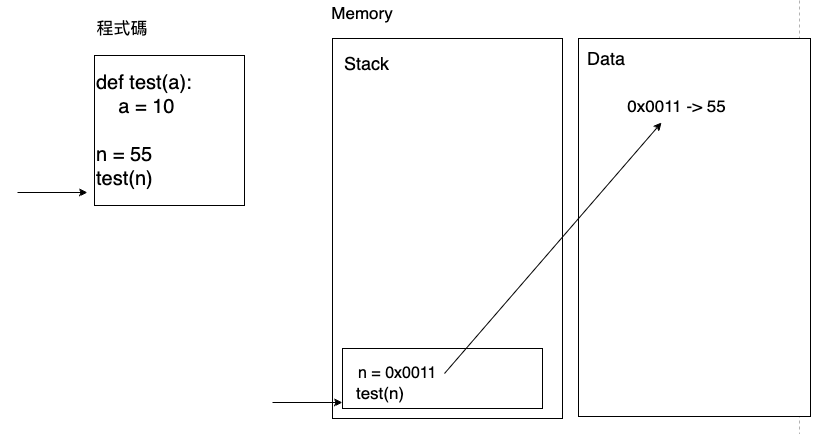
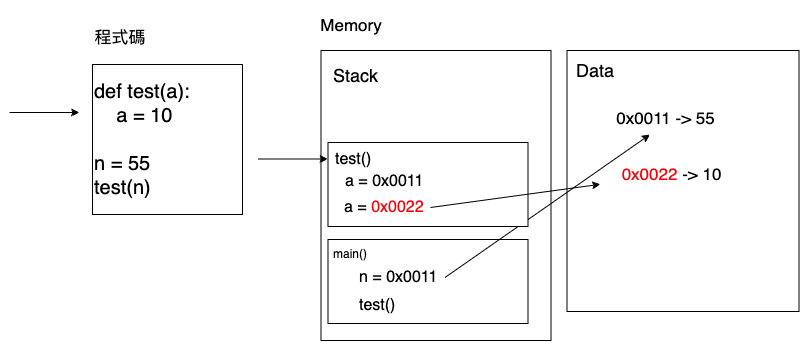
python function
python function

diff --git a/_pages/python/function.md b/_pages/python/function.md
@@ -108,15 +108,22 @@ test(n)
 1.先執行主程式`n=55`，在Stack堆疊區中，建立新的Stack，n的變數存的是0x0011，Data資料區，0x0011記憶體位址存的是55。<br>
 ![img]({{site.imgurl}}/python/stack1.png)<br>
 
-2.執行到test(a)函式後，在Stack堆疊區中，建立新的Stack，Stack建立方式由下至上。<br>
-a的變數存的是0x0011。
+2.呼叫test()函式。<br>
 ![img]({{site.imgurl}}/python/stack2.png)<br>
 
-3.`a=10`，會把變數a存0x0022的記憶體位址，0x0022記憶體位址存的是10。
+3.執行到test(a)函式後，在Stack堆疊區中，建立新的Stack，Stack建立方式由下至上。<br>
+a的變數存的是0x0011。<br>
+
 ![img]({{site.imgurl}}/python/stack3.png)<br>
 
-4.test()函式執行完畢後，test函式的Stack會被清除，stack記憶體位址會被記憶體回收，供之後其它變數使用。<br>
+4.`a=10`，會把變數a存0x0022的記憶體位址，0x0022記憶體位址存的是10。<br>
 ![img]({{site.imgurl}}/python/stack4.png)<br>
+
+5.test()函式執行完畢後，test函式的Stack會被清除，stack記憶體位址會被記憶體回收，供之後其它變數使用。<br>
+![img]({{site.imgurl}}/python/stack5.png)<br>
+
+6.主函式main()執行完畢後，主函式main()的Stack會被清除，stack記憶體位址會被記憶體回收，供之後其它變數使用。<br>
+![img]({{site.imgurl}}/python/stack6.png)<br>
 
 函式內的變數，是屬於區域變數，離開函式無法再讀取，因為函式的記憶體位址在離開函式時已被清除。<br>
 
@@ -170,8 +177,8 @@ def get_info(produt_name = "Cookie", price):
 {% endhighlight %} 
 
 ### 可變參數
-參數數量不固定，可能有1個參數，也可能有10個參數。<br>
-會把多個參數存入tuple。<br>
+參數數量不固定，可能有0個參數、1個參數，也可能有多個參數。<br>
+參數的數量為0至多個參數，會把多個參數存入tuple。<br>
 
 參數名使用`*`星號開頭，如下面程式碼，使用`*args`作為可變參數。<br>
 
@@ -179,6 +186,90 @@ def get_info(produt_name = "Cookie", price):
 ```
 def sum(*args):
     程式碼
+```
+
+以下程式碼，`{args}`直接輸出tuple的內容，使用`type()`輸出類型是tuple。<br>
+{% highlight python linenos %}
+def get_info(*args):
+    print(f"args: {args} , type: {type(args)}")
+
+get_info("Cookie", "Bread", "Fish")
+{% endhighlight %}
+```
+args: ('Cookie', 'Bread', 'Fish') , type: <class 'tuple'>
+```
+
+使用for可以把tuple的元素一個一個輸出。
+{% highlight python linenos %}
+def get_info(*args):
+    for arg in args:
+        print(arg)
+
+get_info("Cookie", "Bread", "Fish")
+{% endhighlight %}
+```
+Cookie
+Bread
+Fish
+```
+
+使用return把傳回值傳入result的變數中。<br>
+{% highlight python linenos %}
+def sum(*args):
+    total =0
+    for arg in args:
+        total += arg
+    return total
+
+result = sum(1,2,3,4,5,6,7,8,9)
+print(result)
+{% endhighlight %}
+
+`*args`為0至多個參數，若無任何參數，也可以。<br>
+以下程式碼呼叫sum()是不代入任何參數。<br>
+{% highlight python linenos %}
+def sum(*args):
+    total =0
+    for arg in args:
+        total += arg
+    return total
+
+result = sum()
+print(result)
+{% endhighlight %}
+```
+0
+```
+
+### key與value的參數
+參數的組成為key與value，此處key的命名仍要符合變數命名規範，不能數字開頭。<br>
+```
+呼叫函式(key1 = value1, key2 = value2, key3 = value3, key4 = value4)
+info(name="Mary", age=18)
+```
+
+傳入的參數key與value會變成dict的資料型態。<br>
+
+使用二個星星`**`代表參數是key與value。
+
+語法
+```
+def info(**args):
+	程式碼
+```
+{% highlight python linenos %}
+def info(**args):
+    print(f"args: {args}, type: {type(args)}")
+    for key in args:
+        print(f"{key}: {args[key]}")
+
+
+info(name="Mary", age=18)
+{% endhighlight %}
+```
+args: {'name': 'Mary', 'age': 18}, type: <class 'dict'>
+name: Mary
+age: 18
 ```
 ## 相同的函式名
 Python可以有相同的函式名，執行函式時，執行離上方自己近的函式，不是下方。<br>
@@ -210,6 +301,7 @@ test()
 2
 ```
 
+## 函式與字串Memory Model
 
 
 

diff --git a/_pages/c/function/func_return_pointer.md b/_pages/c/function/func_return_pointer.md
@@ -19,14 +19,12 @@ int* func() {
 int main() {
   int* p = func();
   int n;
-  printf("test test\n");
   n = * p;
   printf("%d\n",n);
   return 0;
 }
 {% endhighlight %}
 ```
-test test
 -610123577
 ```
 輸出結果並非100，而是-610123577。
@@ -43,14 +41,12 @@ int* func() {
 int main() {
   int* p = func();
   int n;
-  printf("test test\n");
   n = * p;
   printf("%d\n",n);
   return 0;
 }
 {% endhighlight %}
 ```
-test test
 100
 ```
 輸出結果是印出100，而不是亂七八糟的數字。
@@ -87,7 +83,6 @@ int* func() {
 int main() {
   int* p = func();
   int n;
-  printf("test test\n");
   n = * p;
   printf("%d\n",n);
   delete p;
@@ -96,7 +91,6 @@ int main() {
 }
 {% endhighlight %}
 ```
-test test
 50
 ```
 

diff --git a/_pages/java/method.md b/_pages/java/method.md
@@ -284,7 +284,7 @@ Alvin
 4. 傳遞obj物件，是把obj「記憶體位址0x0033」「複製」到method1方法中obj參數。
 5. 修改obj物件(0x0033)的name，指向String Pool中的0x0022。
 6. 離開方法，返回至main方法中呼叫method1()的位置。
-7. 印出obj物件(0x0033)的name(0x0022)
+7. 印出obj物件(0x0033)的name(0x0011)
 
 ![img]({{site.imgurl}}/java/method_obj1.png)
 

diff --git a/_pages/python/import.md b/_pages/python/import.md
@@ -1,0 +1,21 @@
+---
+title: import 其它檔案的函式
+date: 2026-03-10
+keywords: Python, function import
+---
+test2.py 內容如下:
+{% highlight python linenos %}
+def add(x, y):
+    return x + y
+{% endhighlight %}
+
+test1.py 內容如下
+{% highlight python linenos %}
+import test2
+
+result = test2.add(10, 20)
+print(result)
+{% endhighlight %}
+```
+30
+```

diff --git a/_pages/c/reference/reference.md b/_pages/c/reference/reference.md
@@ -116,8 +116,6 @@ ref3的記憶體位址 = 0x7ff7bfeff468, ref3 = 10
 
 原始變數i是int，無法轉成double的資料型態，也沒辦法像指標有強制轉型的功能。
 
-## 初始化後不可改變原始變數
-
 {% highlight c++ linenos %}
   int i = 10;//原始變數
   //宣告參考

diff --git a/_pages/python/func_param.md b/_pages/python/func_param.md
@@ -1,0 +1,6 @@
+---
+title: 函式作為參數
+date: 2026-03-10
+keywords: Python, function as parameter
+---
+函式作為參數傳遞給函式，傳遞過去的是「處理邏輯」。

diff --git a/_pages/python/while.md b/_pages/python/while.md
@@ -90,8 +90,6 @@ while i < 5:
     if (i == 3):
         break
     print(i)
-    i = i + 1
-    print(i)
     i += 1
 else:
     print("else")

diff --git a/_pages/c/function/func_param_pointer.md b/_pages/c/function/func_param_pointer.md
@@ -173,8 +173,6 @@ int main() {
   return 0;
 }
 {% endhighlight %}
-
-
 ```
 執行結果
 mathMax = 70
